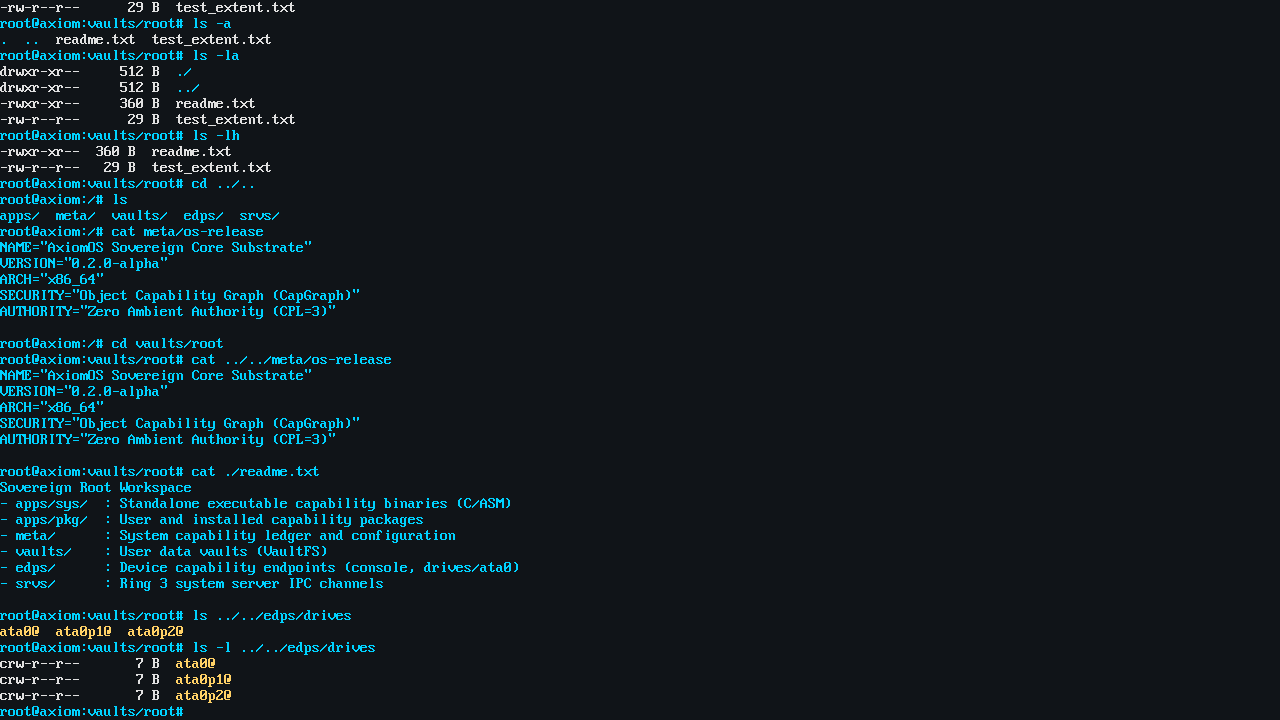
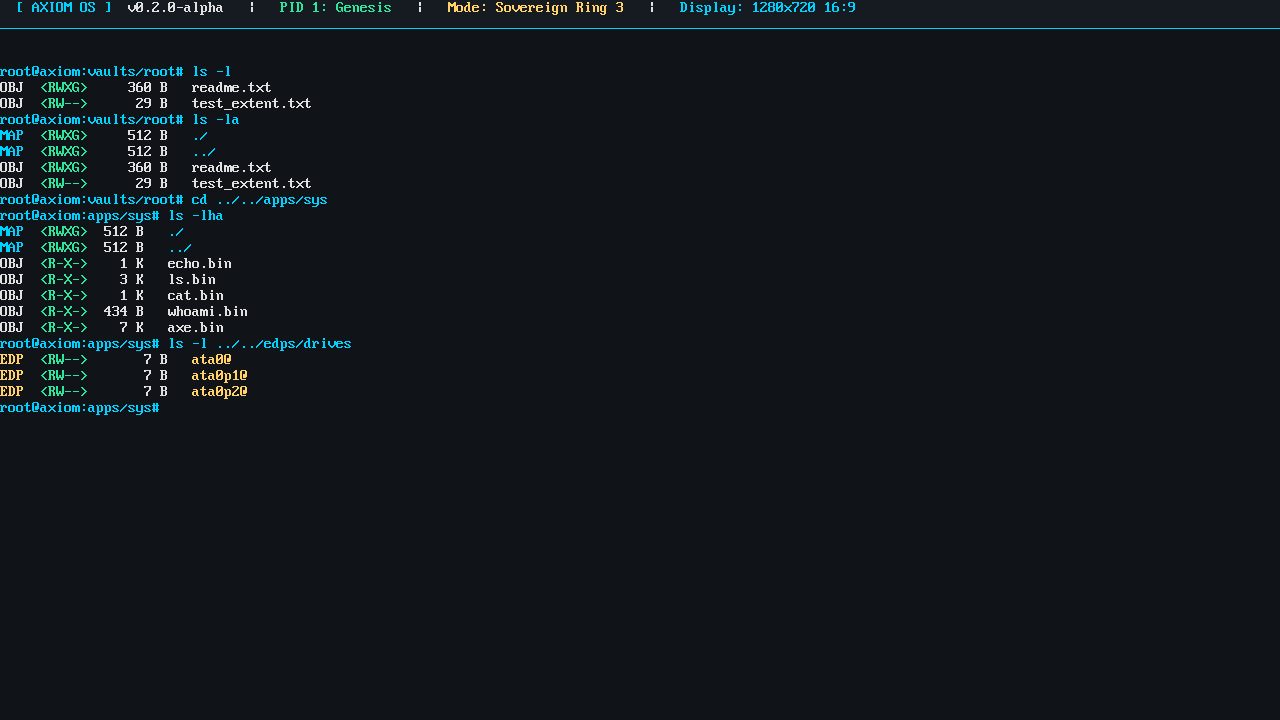
feat: replace legacy Unix rwx with Sovereign CapObject telemetry (<RWXG>, MAP/OBJ/EDP)

diff --git a/userland/bin/ls.c b/userland/bin/ls.c
@@ -49,25 +49,38 @@ static void print_size(uint32_t bytes, int human) {
 }
 
 static void print_long_entry(const char* name, uint32_t is_dir, uint32_t data_len, uint8_t rights, int opt_h) {
-    char mode[11];
-    mode[0] = (is_dir == 1) ? 'd' : ((is_dir == 2) ? 'c' : '-');
-    mode[1] = (rights & RIGHTS_READ) ? 'r' : '-';
-    mode[2] = (rights & RIGHTS_WRITE) ? 'w' : '-';
-    mode[3] = (rights & RIGHTS_EXEC) ? 'x' : '-';
-    mode[4] = (rights & RIGHTS_READ) ? 'r' : '-';
-    mode[5] = '-';
-    mode[6] = (rights & RIGHTS_EXEC) ? 'x' : '-';
-    mode[7] = (rights & RIGHTS_READ) ? 'r' : '-';
-    mode[8] = '-';
-    mode[9] = '-';
-    mode[10] = '\0';
+    // 1. CapObject Kind Badge (MAP, EDP, OBJ)
+    if (is_dir == 1) {
+        axiom_set_color(COLOR_CYAN, 0x00101418); // Electric Cyan
+        axiom_print("MAP  ");
+    } else if (is_dir == 2) {
+        axiom_set_color(COLOR_GOLD, 0x00101418); // Gold Yellow
+        axiom_print("EDP  ");
+    } else {
+        axiom_set_color(COLOR_SILVER, 0x00101418); // Crisp Silver
+        axiom_print("OBJ  ");
+    }
 
-    axiom_set_color(COLOR_SILVER, 0x00101418);
-    axiom_print(mode);
+    // 2. Sovereign Capability Rights Attenuation Bracket: <RWXG>
+    char rights_buf[7];
+    rights_buf[0] = '<';
+    rights_buf[1] = (rights & RIGHTS_READ)  ? 'R' : '-';
+    rights_buf[2] = (rights & RIGHTS_WRITE) ? 'W' : '-';
+    rights_buf[3] = (rights & RIGHTS_EXEC)  ? 'X' : '-';
+    rights_buf[4] = (rights & RIGHTS_GRANT) ? 'G' : '-';
+    rights_buf[5] = '>';
+    rights_buf[6] = '\0';
+
+    axiom_set_color(COLOR_EMERALD, 0x00101418); // Sovereign Emerald
+    axiom_print(rights_buf);
     axiom_print(" ");
-    print_size(data_len, opt_h);
-    axiom_print("  ");
 
+    // 3. Object Extent Size
+    axiom_set_color(COLOR_SILVER, 0x00101418);
+    print_size(data_len, opt_h);
+    axiom_print("   ");
+
+    // 4. Object Name with CapGraph Type Indicator
     if (is_dir == 1) {
         axiom_set_color(COLOR_CYAN, 0x00101418); // Electric Cyan
         axiom_print(name);
@@ -115,7 +128,7 @@ int main(int argc, char** argv, CapKeyring* keyring) {
         axiom_println("List capability map entries, file blobs, and hardware endpoints.");
         axiom_println("Options:");
         axiom_println("  -a, --all         Do not ignore entries starting with . (includes . and ..)");
-        axiom_println("  -l                Use a long listing format (permissions, size, type)");
+        axiom_println("  -l                Use Sovereign CapObject listing format (<RWXG>, kind, size)");
         axiom_println("  -h, --human       Print human-readable sizes (with -l) or help");
         axiom_println("  --help            Show this command reference manual");
         return 0;
